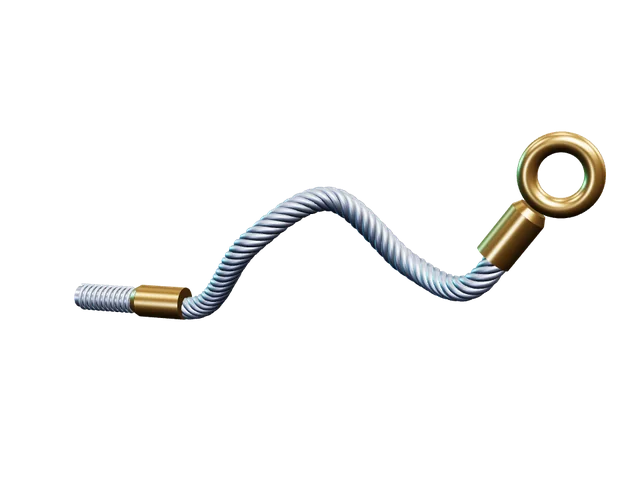
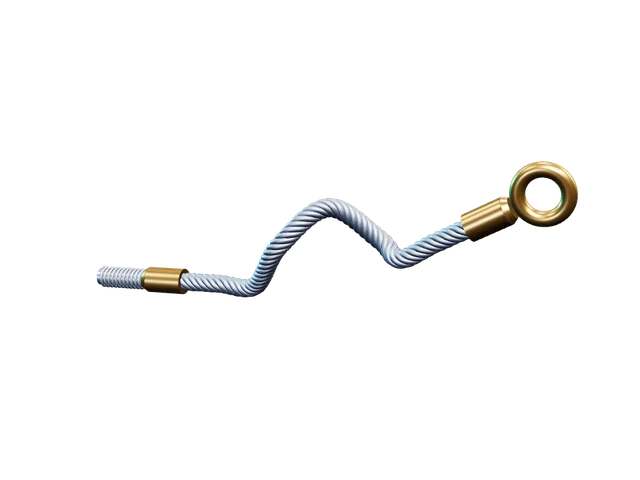
fix: cavo dritto sotto i terminali, barra materiali senza vuoti e layout proporzionale sugli schermi grandi
La barra dei materiali ripete le parole fino a coprire qualsiasi larghezza (provata da 360 a 3840 px, IT/DE/EN). Dai 1600px il testo e le larghezze crescono in proporzione (rem). Immagine del cavo rifatta con tratti dritti sotto le boccole. Versione file v=28.

Changed region(s): [[0.0938, 0.25, 0.9688, 0.6875]]

diff --git a/css/style.css b/css/style.css
@@ -52,9 +52,9 @@ html[data-theme="dark"] {
 }
 
 *, *::before, *::after { box-sizing: border-box; }
-html { scroll-behavior: smooth; scroll-padding-top: calc(var(--header-h) + 12px); -webkit-text-size-adjust: 100%; }
+html { font-size: clamp(16px, 1vw, 32px); scroll-behavior: smooth; scroll-padding-top: calc(var(--header-h) + 12px); -webkit-text-size-adjust: 100%; }
 html, body { margin: 0; min-height: 100%; }
-body { font-family: var(--font); font-size: 16px; line-height: 1.55; color: var(--ink); background: var(--bg); overflow-x: hidden; }
+body { font-family: var(--font); font-size: 1rem; line-height: 1.55; color: var(--ink); background: var(--bg); overflow-x: hidden; }
 img, svg { max-width: 100%; }
 h1, h2, h3 { margin: 0; line-height: 1.15; color: var(--titolo); letter-spacing: .01em; }
 p { margin: 0 0 1em; }
@@ -64,7 +64,7 @@ button { font: inherit; color: inherit; cursor: pointer; }
 input, textarea { font: inherit; color: inherit; }
 :focus-visible { outline: 3px solid color-mix(in srgb, var(--blu) 60%, white); outline-offset: 2px; }
 
-.contenitore { width: min(1180px, 100% - 48px); margin-inline: auto; }
+.contenitore { width: min(73.75rem, 100% - 48px); margin-inline: auto; }
 .sopratitolo { font-family: var(--mono); font-size: .76rem; font-weight: 500; letter-spacing: .2em; text-transform: uppercase; color: var(--acc); margin-bottom: .8rem; display: flex; align-items: center; gap: .8rem; }
 .sopratitolo::before { content: ""; width: 28px; height: 1px; background: currentColor; flex: none; }
 .logo-scuro { display: none; }
@@ -125,7 +125,7 @@ html[data-theme="dark"] .btn-primario:hover:not([disabled]) { background: linear
 /* ==========================================================================
    2. DESKTOP (stile predefinito, senza @media)
    ========================================================================== */
-.top { position: sticky; top: 0; z-index: 50; height: var(--header-h); display: flex; align-items: center; justify-content: space-between; gap: 1.5rem; padding: 0 max(24px, calc((100% - 1180px) / 2)); background: var(--vetro); -webkit-backdrop-filter: blur(16px) saturate(1.4); backdrop-filter: blur(16px) saturate(1.4); border-bottom: 1px solid var(--line); }
+.top { position: sticky; top: 0; z-index: 50; height: var(--header-h); display: flex; align-items: center; justify-content: space-between; gap: 1.5rem; padding: 0 max(24px, calc((100% - 73.75rem) / 2)); background: var(--vetro); -webkit-backdrop-filter: blur(16px) saturate(1.4); backdrop-filter: blur(16px) saturate(1.4); border-bottom: 1px solid var(--line); }
 .logo { display: block; line-height: 0; }
 .logo img { height: 40px; width: auto; }
 .menu { display: flex; gap: 2rem; margin-left: auto; }
@@ -146,7 +146,7 @@ html[data-theme="dark"] .btn-primario:hover:not([disabled]) { background: linear
 /* Archivo (e non Montserrat) nel titolo: il contorno vuoto di Montserrat mostra righe interne alle lettere */
 .hero h1 { font-family: "Archivo", var(--font); color: #fff; font-size: clamp(2.2rem, 4.6vw, 4.2rem); font-weight: 800; letter-spacing: .01em; line-height: 1.04; text-transform: uppercase; }
 .hero h1 .contorno { color: transparent; -webkit-text-stroke: 1.5px rgba(255, 255, 255, .85); }
-.hero .lead { max-width: 560px; margin: 1.5rem 0 2rem; font-size: 1.08rem; color: rgba(225, 235, 255, .86); }
+.hero .lead { max-width: 35rem; margin: 1.5rem 0 2rem; font-size: 1.08rem; color: rgba(225, 235, 255, .86); }
 .hero-bottoni { display: flex; flex-wrap: wrap; gap: 1rem; }
 .hero-punti { display: flex; flex-wrap: wrap; gap: 2.2rem; list-style: none; padding: 0; margin: 3rem 0 0; color: rgba(200, 215, 245, .78); font-size: .86rem; }
 .hero-punti strong { display: block; font-family: var(--mono); font-size: 1.5rem; font-weight: 700; color: #fff; }
@@ -159,7 +159,7 @@ html[data-theme="dark"] .btn-primario:hover:not([disabled]) { background: linear
 @keyframes sale { from { opacity: 0; transform: translateY(18px); } to { opacity: 1; transform: none; } }
 
 /* Il pezzo: foto segnaposto subito, 3D vivo che prende il suo posto con una dissolvenza */
-.hero-visual { position: relative; width: min(100%, 620px); aspect-ratio: 1 / 1; justify-self: end; }
+.hero-visual { position: relative; width: min(100%, 38.75rem); aspect-ratio: 1 / 1; justify-self: end; }
 .hv-poster, .hv-canvas { position: absolute; inset: 0; width: 100%; height: 100%; }
 .hv-poster { object-fit: contain; transition: opacity .8s ease .55s; }
 .hv-canvas { opacity: 0; transition: opacity .8s ease; }
@@ -204,7 +204,7 @@ html[data-theme="dark"] .btn-primario:hover:not([disabled]) { background: linear
 .rt-testa { position: relative; margin: -.5rem -.6rem 0; background: radial-gradient(62% 58% at 50% 56%, color-mix(in srgb, var(--acc) 17%, transparent), transparent 72%); }
 .rt-testa .rt-num { position: absolute; left: .6rem; top: .5rem; z-index: 1; }
 .rt-num { font-family: var(--mono); font-size: .78rem; font-weight: 500; letter-spacing: .14em; color: var(--acc); }
-.rt-foto { display: block; width: 100%; height: 200px; object-fit: contain; filter: drop-shadow(0 14px 16px rgba(0, 0, 0, .4)); transition: transform .4s ease; }
+.rt-foto { display: block; width: 100%; height: 12.5rem; object-fit: contain; filter: drop-shadow(0 14px 16px rgba(0, 0, 0, .4)); transition: transform .4s ease; }
 .reparto-tile:hover .rt-foto { transform: scale(1.06) rotate(-1.5deg); }
 .rt-testo { position: relative; }
 .reparto-tile h3 { font-size: 1.28rem; font-weight: 800; letter-spacing: .01em; color: var(--titolo); }
@@ -491,7 +491,7 @@ html[data-theme="dark"] .anteprima-pdf { filter: brightness(.92); }
 /* Passo 1: riquadri dei reparti con icona */
 .reparto-card { position: relative; display: grid; grid-template-columns: auto minmax(0, 1fr) auto; align-items: center; gap: 1.1rem; padding: 1.25rem 1.3rem; text-align: left; border: 1px solid var(--line); border-radius: 12px; background: linear-gradient(165deg, color-mix(in srgb, var(--card) 90%, var(--blu)) 0%, var(--card) 70%); transition: transform .2s ease, border-color .2s ease, box-shadow .2s ease; }
 .reparto-card:hover { transform: translateY(-3px); border-color: var(--acc); box-shadow: var(--glow); }
-.rc-foto { display: block; width: 136px; height: 102px; object-fit: contain; filter: drop-shadow(0 8px 10px rgba(0, 0, 0, .4)); }
+.rc-foto { display: block; width: 8.5rem; height: 6.375rem; object-fit: contain; filter: drop-shadow(0 8px 10px rgba(0, 0, 0, .4)); }
 .rc-nome { display: block; font-weight: 800; font-size: 1.05rem; color: var(--titolo); }
 .rc-desc { display: block; margin-top: .25rem; font-size: .82rem; font-weight: 500; color: var(--muted); }
 .rc-freccia { font-family: var(--mono); font-size: 1.3rem; color: var(--acc); transition: transform .2s ease; }

diff --git a/js/app.js b/js/app.js
@@ -1081,8 +1081,33 @@
     }
     daVedere.forEach(function (e) { osservatore.observe(e); });
   }
+  // Barra dei materiali: ripete le parole quanto serve per coprire QUALSIASI larghezza (mai spazio vuoto) e tiene la stessa velocita'
+  var marqueeTimer = 0;
+  function riempiMarquee() {
+    var pista = document.querySelector(".marquee-pista");
+    if (!pista) return;
+    var liste = pista.querySelectorAll(".marquee-lista");
+    if (liste.length < 2) return;
+    var serie = Array.prototype.slice.call(liste[0].querySelectorAll("span[data-i18n]")).slice(0, 6); // una sola serie, nella lingua corrente
+    if (!serie.length) return;
+    var riempi = function (lista, n) {
+      svuota(lista);
+      for (var i = 0; i < n; i++) serie.forEach(function (s) { lista.appendChild(s.cloneNode(true)); });
+    };
+    var copia = serie.map(function (s) { return s.cloneNode(true); });
+    serie = copia;
+    riempi(liste[0], 1); riempi(liste[1], 1);
+    var w1 = liste[0].getBoundingClientRect().width;
+    if (!w1) return;
+    var n = Math.max(1, Math.ceil(window.innerWidth / w1)); // una serie deve coprire almeno tutto lo schermo
+    riempi(liste[0], n); riempi(liste[1], n);
+    pista.style.animationDuration = Math.max(12, Math.round((w1 * n) / 55)) + "s"; // circa 55 px al secondo su ogni schermo
+  }
+  function programmaMarquee() { clearTimeout(marqueeTimer); marqueeTimer = setTimeout(riempiMarquee, 120); }
+
   // Aggiorna tutto cio' che dipende dalla lingua, senza perdere cio' che l'utente ha inserito
   function aggiornaLingua() {
+    riempiMarquee();
     creaLingue();
     costruisciTile();
     var slot = document.getElementById("azzera-slot"); svuota(slot); slot.appendChild(bottoneAzzera("link-piede"));
@@ -1143,6 +1168,10 @@
     try { history.replaceState({ cfgPasso: cfg.passo }, "", location.href); } catch (e) { /* ok */ }
     disegna();
     route();
+    riempiMarquee();
+    window.addEventListener("resize", programmaMarquee);
+    window.addEventListener("load", riempiMarquee);
+    if (document.fonts && document.fonts.ready) document.fonts.ready.then(riempiMarquee);
   }
   // Prima disegnata: stesso lavoro di aggiornaLingua ma senza toccare cio' che non esiste ancora
   function aggiornaLinguaIniziale() {

diff --git a/strumenti/render_reparti.html b/strumenti/render_reparti.html
@@ -107,7 +107,7 @@ function scenaFresatura() {
 /* ---------- 3. CAVI: fune d'acciaio a trefoli con occhiello e terminale filettato ---------- */
 function scenaCavi() {
   const g = new THREE.Group();
-  const pts = [[-54, -16, 0], [-34, -16, 0], [-14, 6, 8], [6, 16, -2], [26, -2, -4], [44, -4, 4], [58, 14, 0]].map((p) => new THREE.Vector3(...p));
+  const pts = [[-62, -16, 0], [-48, -16, 0], [-34, -16, 0], [-20, -16, 0], [-6, 2, 8], [10, 14, 0], [26, 2, -4], [34, -3, 0], [46, 3, 0], [58, 9, 0], [70, 15, 0]].map((p) => new THREE.Vector3(...p));
   const centro = new THREE.CatmullRomCurve3(pts, false, "catmullrom", 0.5);
   const N = 360, fr = centro.computeFrenetFrames(N, false);
   const R = 3.3, s = R / 3, off = R - s, passo = 15;
@@ -138,7 +138,7 @@ function scenaCavi() {
   const col = tronco(3.6, 4.8, 2, OTTONE()); col.position.y = 1; ge.add(col);
   const anelloOcc = new THREE.Mesh(new THREE.TorusGeometry(8, 2.5, 20, 64), OTTONE()); anelloOcc.position.y = 12.5; ge.add(anelloOcc);
   orienta(ge, t1); ge.position.copy(p1); g.add(ge);
-  return { g, vista: new THREE.Euler(0.35, -0.35, 0.08, "XYZ"), fit: 1.0 };
+  return { g, vista: new THREE.Euler(0.35, -0.35, 0.08, "XYZ"), fit: 1.14 };
 }
 
 /* ---------- 4. ASSEMBLAGGI: bullone, piastra, rondella e dado in vista esplosa ---------- */

diff --git a/index.html b/index.html
@@ -30,8 +30,8 @@
 <link rel="preload" as="fetch" href="img/hero-pezzo.bin" crossorigin>
 <link rel="modulepreload" href="js/vendor/three.module.min.js">
 <link rel="modulepreload" href="js/vendor/RoomEnvironment.js">
-<link rel="modulepreload" href="js/hero3d.js?v=26">
-<link rel="stylesheet" href="css/style.css?v=26">
+<link rel="modulepreload" href="js/hero3d.js?v=28">
+<link rel="stylesheet" href="css/style.css?v=28">
 </head>
 <body>
 
@@ -153,12 +153,12 @@
   </div>
 </footer>
 
-<script src="js/schedario.js?v=26"></script>
-<script src="js/prezzi.js?v=26"></script>
-<script src="js/testi.js?v=26"></script>
-<script src="js/i18n.js?v=26"></script>
-<script src="js/file.js?v=26"></script>
-<script src="js/app.js?v=26"></script>
-<script type="module" src="js/hero3d.js?v=26"></script>
+<script src="js/schedario.js?v=28"></script>
+<script src="js/prezzi.js?v=28"></script>
+<script src="js/testi.js?v=28"></script>
+<script src="js/i18n.js?v=28"></script>
+<script src="js/file.js?v=28"></script>
+<script src="js/app.js?v=28"></script>
+<script type="module" src="js/hero3d.js?v=28"></script>
 </body>
 </html>
